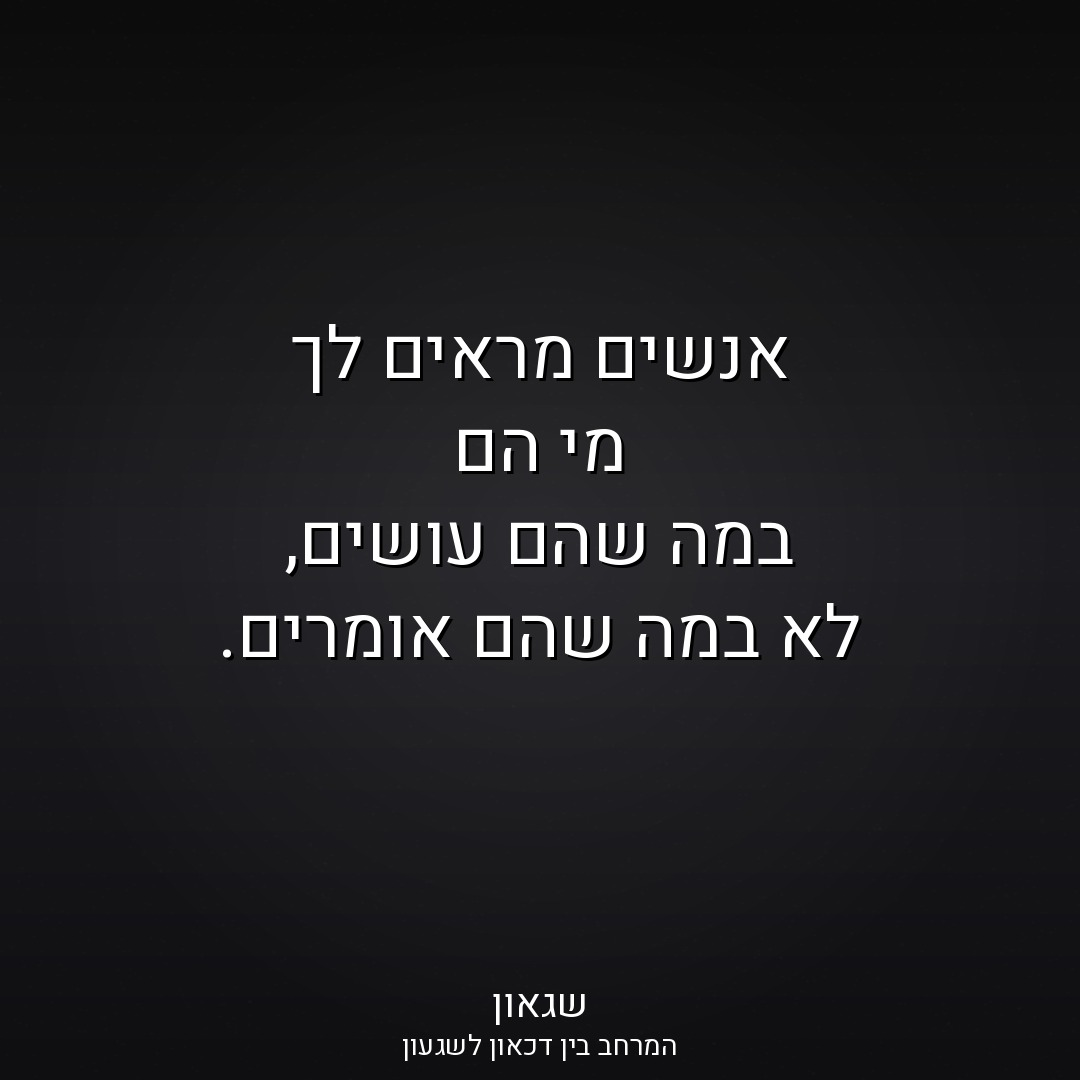
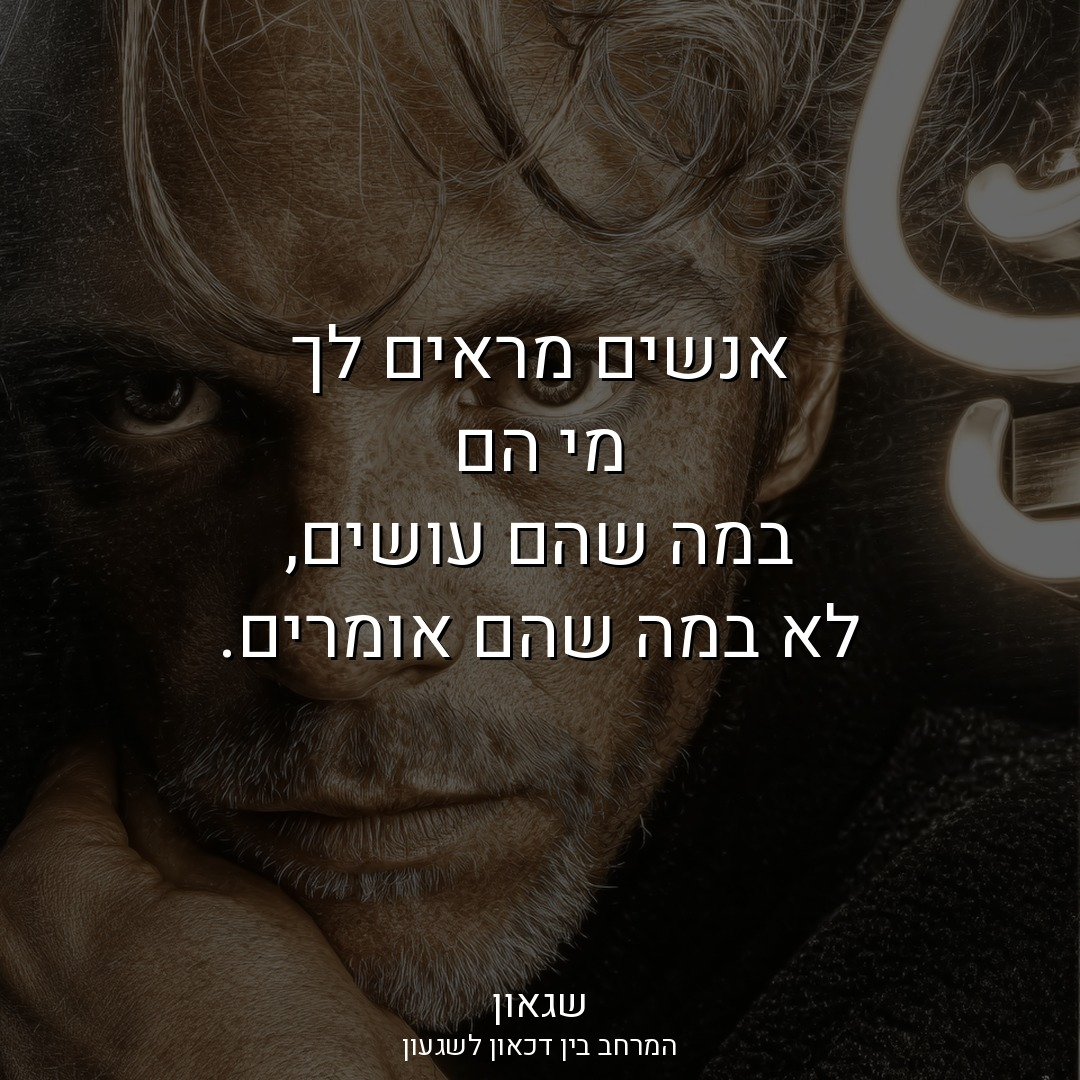
Use uploaded background images instead of gradients
https://claude.ai/code/session_01Wb7eYJezSQi5a5sW8gDZuw

diff --git a/generate_quotes.py b/generate_quotes.py
@@ -114,77 +114,31 @@ QUOTES = [
 ]
 
 
-def make_gradient_bg(style, size=(1080, 1080)):
-    """Create a cinematic gradient background."""
-    W, H = size
-    img = Image.new("RGB", size)
-    draw = ImageDraw.Draw(img)
+BACKGROUNDS_DIR = "backgrounds"
 
-    palettes = {
-        "night_sky":  [(5, 5, 20), (15, 15, 60), (5, 5, 20)],
-        "sunset":     [(10, 5, 5), (80, 30, 10), (180, 80, 20), (80, 30, 10)],
-        "forest":     [(5, 15, 5), (10, 40, 20), (5, 20, 10)],
-        "ocean":      [(5, 10, 30), (10, 40, 80), (5, 20, 50)],
-        "deep_blue":  [(5, 5, 30), (10, 20, 80), (30, 60, 120), (10, 20, 60)],
-        "dawn":       [(5, 5, 20), (60, 40, 80), (160, 100, 60), (60, 30, 20)],
-        "storm":      [(10, 10, 10), (30, 30, 35), (10, 10, 15)],
-        "mountain":   [(10, 10, 20), (30, 30, 50), (15, 15, 30)],
-        "desert":     [(20, 10, 5), (80, 50, 20), (40, 25, 10)],
-        "fog":        [(20, 20, 25), (50, 55, 65), (25, 25, 30)],
-        "wine":       [(20, 5, 10), (80, 10, 30), (40, 5, 15)],
-        "teal":       [(5, 20, 20), (10, 70, 70), (5, 35, 35)],
-        "midnight":   [(5, 5, 15), (10, 10, 40), (20, 20, 60), (10, 10, 35)],
-        "ember":      [(15, 5, 5), (100, 40, 5), (200, 100, 10), (100, 40, 5)],
-        "slate":      [(15, 20, 25), (35, 45, 55), (20, 28, 35)],
-        "copper":     [(25, 12, 5), (100, 55, 20), (55, 28, 10)],
-        "aurora":     [(5, 15, 25), (20, 80, 80), (60, 120, 80), (20, 60, 60)],
-        "charcoal":   [(12, 12, 12), (28, 28, 32), (15, 15, 18)],
-        "crimson":    [(15, 5, 5), (90, 10, 20), (50, 5, 10)],
-        "sage":       [(10, 20, 12), (30, 60, 35), (15, 35, 18)],
-        "navy":       [(5, 8, 25), (10, 20, 70), (5, 12, 40)],
-        "rose":       [(25, 8, 15), (90, 30, 55), (50, 15, 28)],
-        "gold":       [(20, 15, 5), (90, 65, 10), (45, 32, 5)],
-        "indigo":     [(10, 5, 30), (40, 20, 100), (20, 10, 55)],
-        "pine":       [(5, 18, 10), (12, 50, 28), (6, 28, 14)],
-    }
 
-    colors = palettes.get(style, [(5, 5, 20), (20, 20, 50), (5, 5, 20)])
+def load_backgrounds():
+    exts = ('.jpg', '.jpeg', '.png', '.webp')
+    files = sorted([
+        os.path.join(BACKGROUNDS_DIR, f)
+        for f in os.listdir(BACKGROUNDS_DIR)
+        if f.lower().endswith(exts)
+    ])
+    return files
 
-    for y in range(H):
-        t = y / H
-        # Interpolate across color stops
-        n = len(colors) - 1
-        seg = min(int(t * n), n - 1)
-        local_t = (t * n) - seg
-        c0 = colors[seg]
-        c1 = colors[seg + 1]
-        r = int(c0[0] + (c1[0] - c0[0]) * local_t)
-        g = int(c0[1] + (c1[1] - c0[1]) * local_t)
-        b = int(c0[2] + (c1[2] - c0[2]) * local_t)
-        draw.line([(0, y), (W, y)], fill=(r, g, b))
 
-    # Add subtle noise/texture
-    import random
-    random.seed(42)
-    for _ in range(8000):
-        x = random.randint(0, W - 1)
-        y = random.randint(0, H - 1)
-        v = random.randint(0, 25)
-        px = img.getpixel((x, y))
-        img.putpixel((x, y), (min(255, px[0]+v), min(255, px[1]+v), min(255, px[2]+v)))
-
-    # Slight blur to smooth noise
-    img = img.filter(ImageFilter.GaussianBlur(1))
-
-    # Add a soft radial vignette (brighter center)
-    vignette = Image.new("RGBA", size, (0, 0, 0, 0))
-    vd = ImageDraw.Draw(vignette)
-    for i in range(60, 0, -1):
-        alpha = int((60 - i) * 2.5)
-        margin = int((60 - i) * 9)
-        vd.ellipse([margin, margin, W - margin, H - margin], fill=(255, 255, 255, alpha // 8))
-    img = Image.alpha_composite(img.convert("RGBA"), vignette).convert("RGB")
-
+def prepare_background(path, size=(1080, 1080)):
+    img = Image.open(path).convert("RGB")
+    # Crop to square from center
+    w, h = img.size
+    side = min(w, h)
+    left = (w - side) // 2
+    top = (h - side) // 2
+    img = img.crop((left, top, left + side, top + side))
+    img = img.resize(size, Image.LANCZOS)
+    # Dark overlay so text is always readable
+    overlay = Image.new("RGBA", size, (0, 0, 0, 150))
+    img = Image.alpha_composite(img.convert("RGBA"), overlay).convert("RGB")
     return img
 
 
@@ -215,9 +169,10 @@ def draw_hebrew_text_centered(draw, text, font, img_width, y_start, fill, line_s
     return y
 
 
-def make_quote_image(quote_data, index):
+def make_quote_image(quote_data, index, bg_paths):
     print(f"  Generating image {index + 1}...")
-    img = make_gradient_bg(quote_data["bg"])
+    bg_path = bg_paths[index % len(bg_paths)]
+    img = prepare_background(bg_path)
 
     draw = ImageDraw.Draw(img)
     W, H = img.size
@@ -258,12 +213,14 @@ def make_quote_image(quote_data, index):
 
 def main(start=0):
     os.makedirs(OUTPUT_DIR, exist_ok=True)
+    bg_paths = load_backgrounds()
+    print(f"Loaded {len(bg_paths)} background images")
     results = []
     for i, q in enumerate(QUOTES):
         if i < start:
             continue
         try:
-            path = make_quote_image(q, i)
+            path = make_quote_image(q, i, bg_paths)
             results.append(path)
         except Exception as e:
             print(f"  ERROR on image {i + 1}: {e}")
